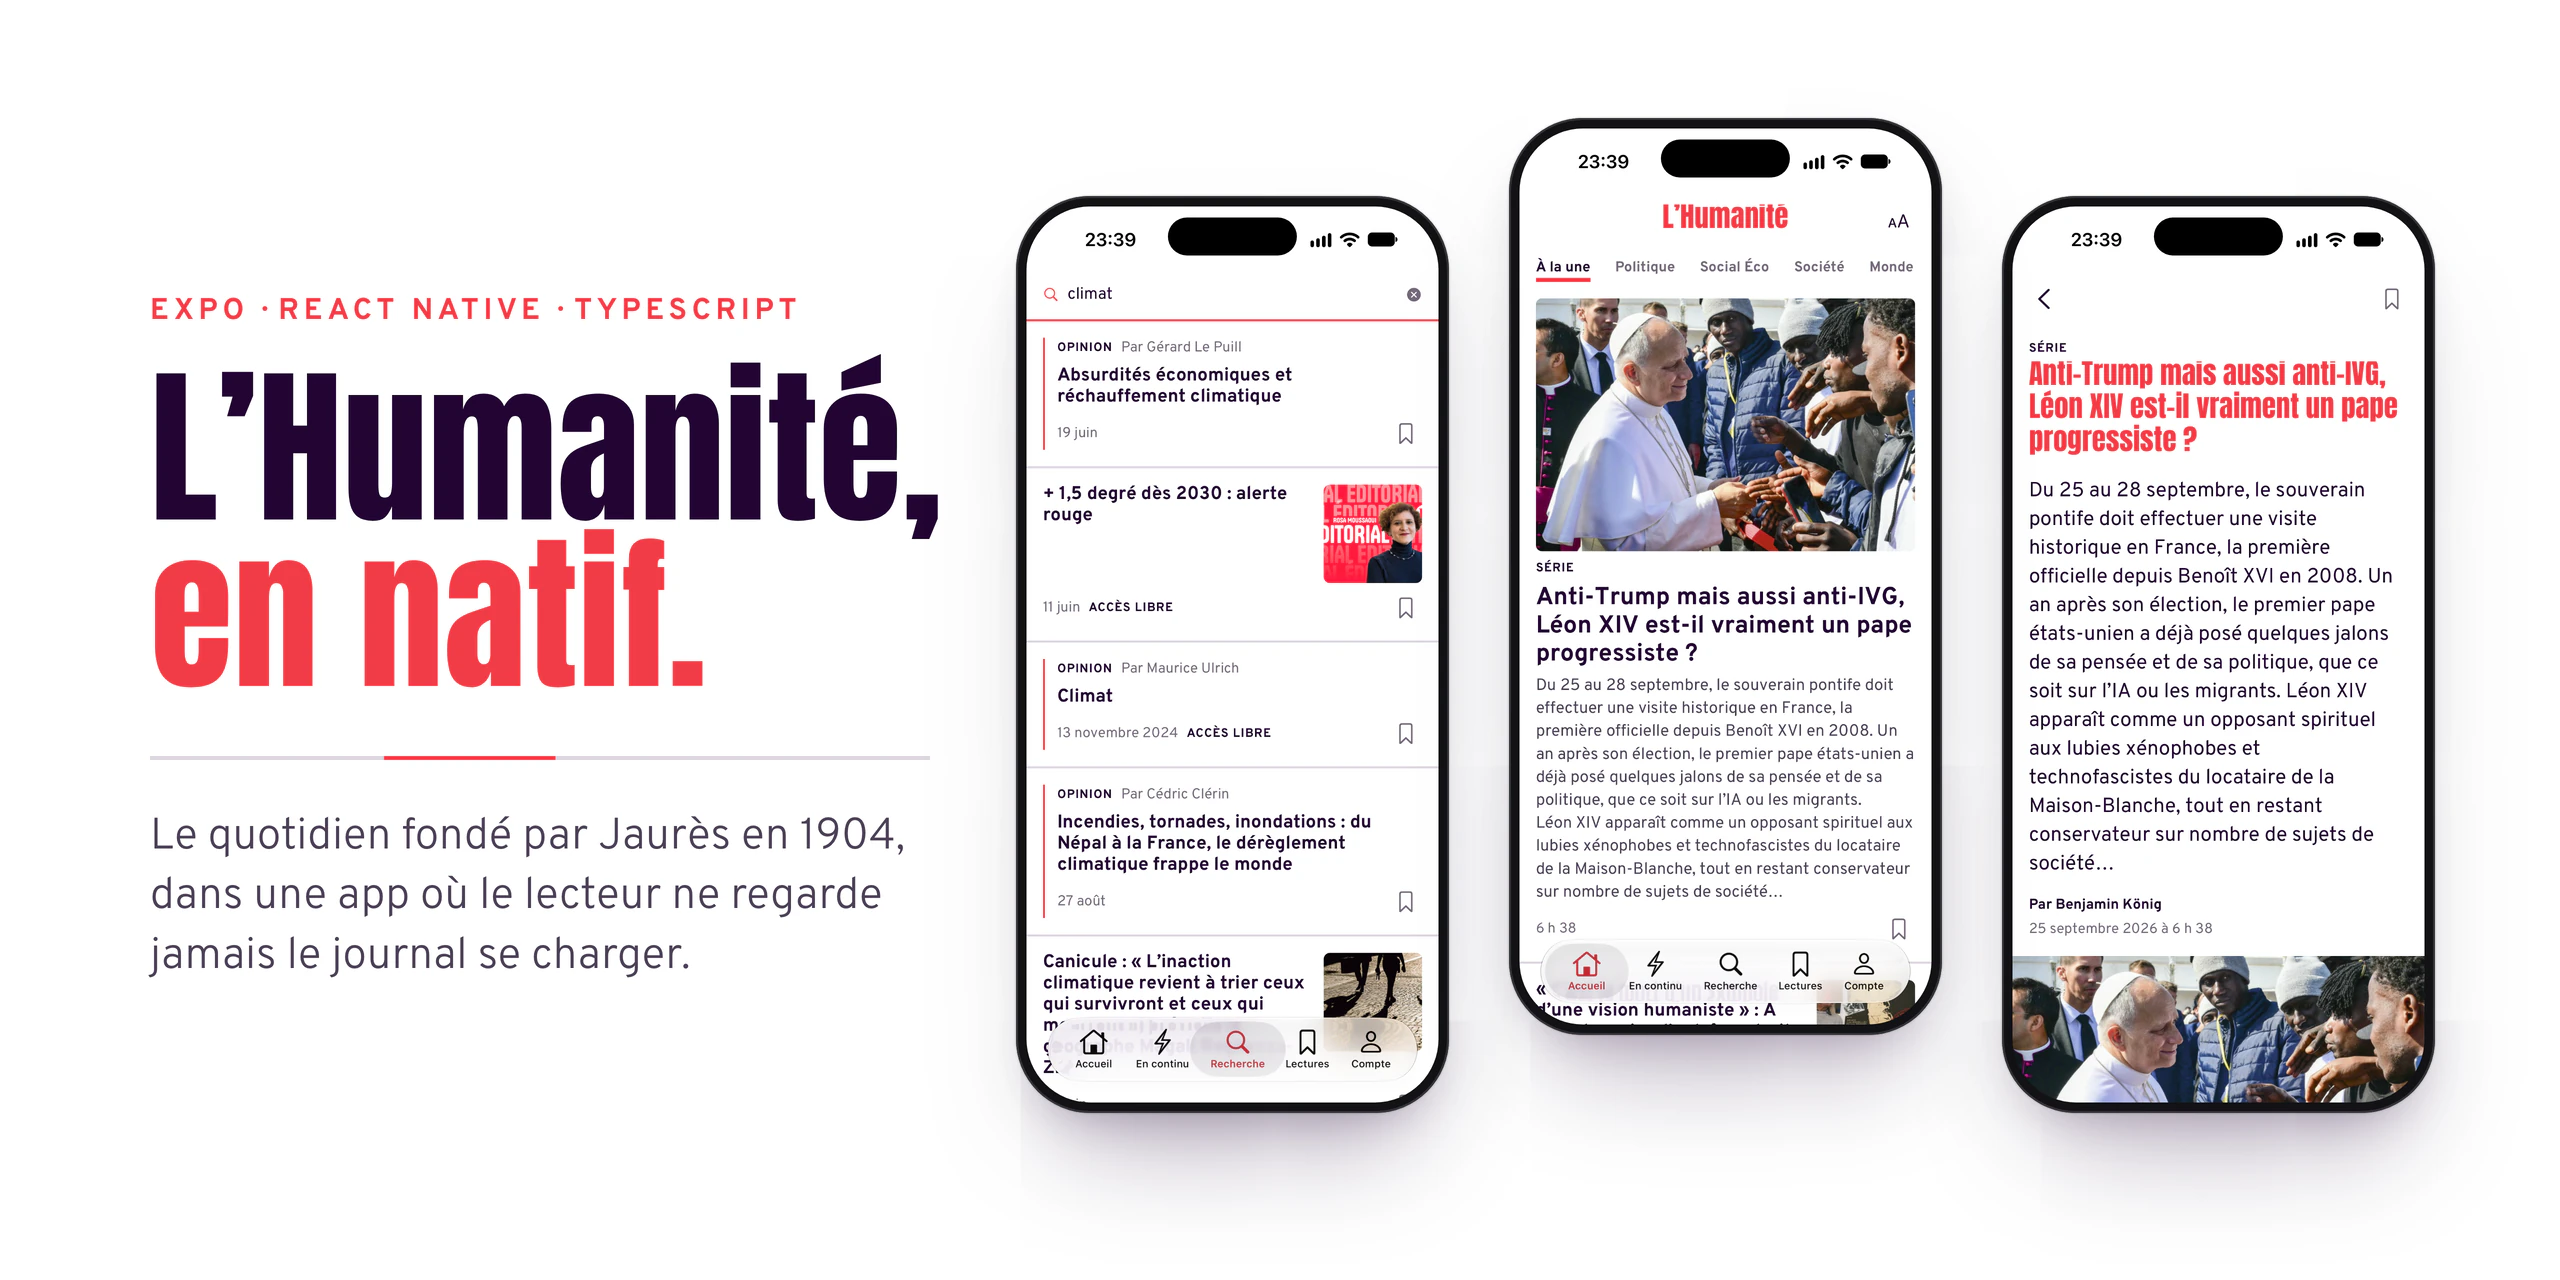
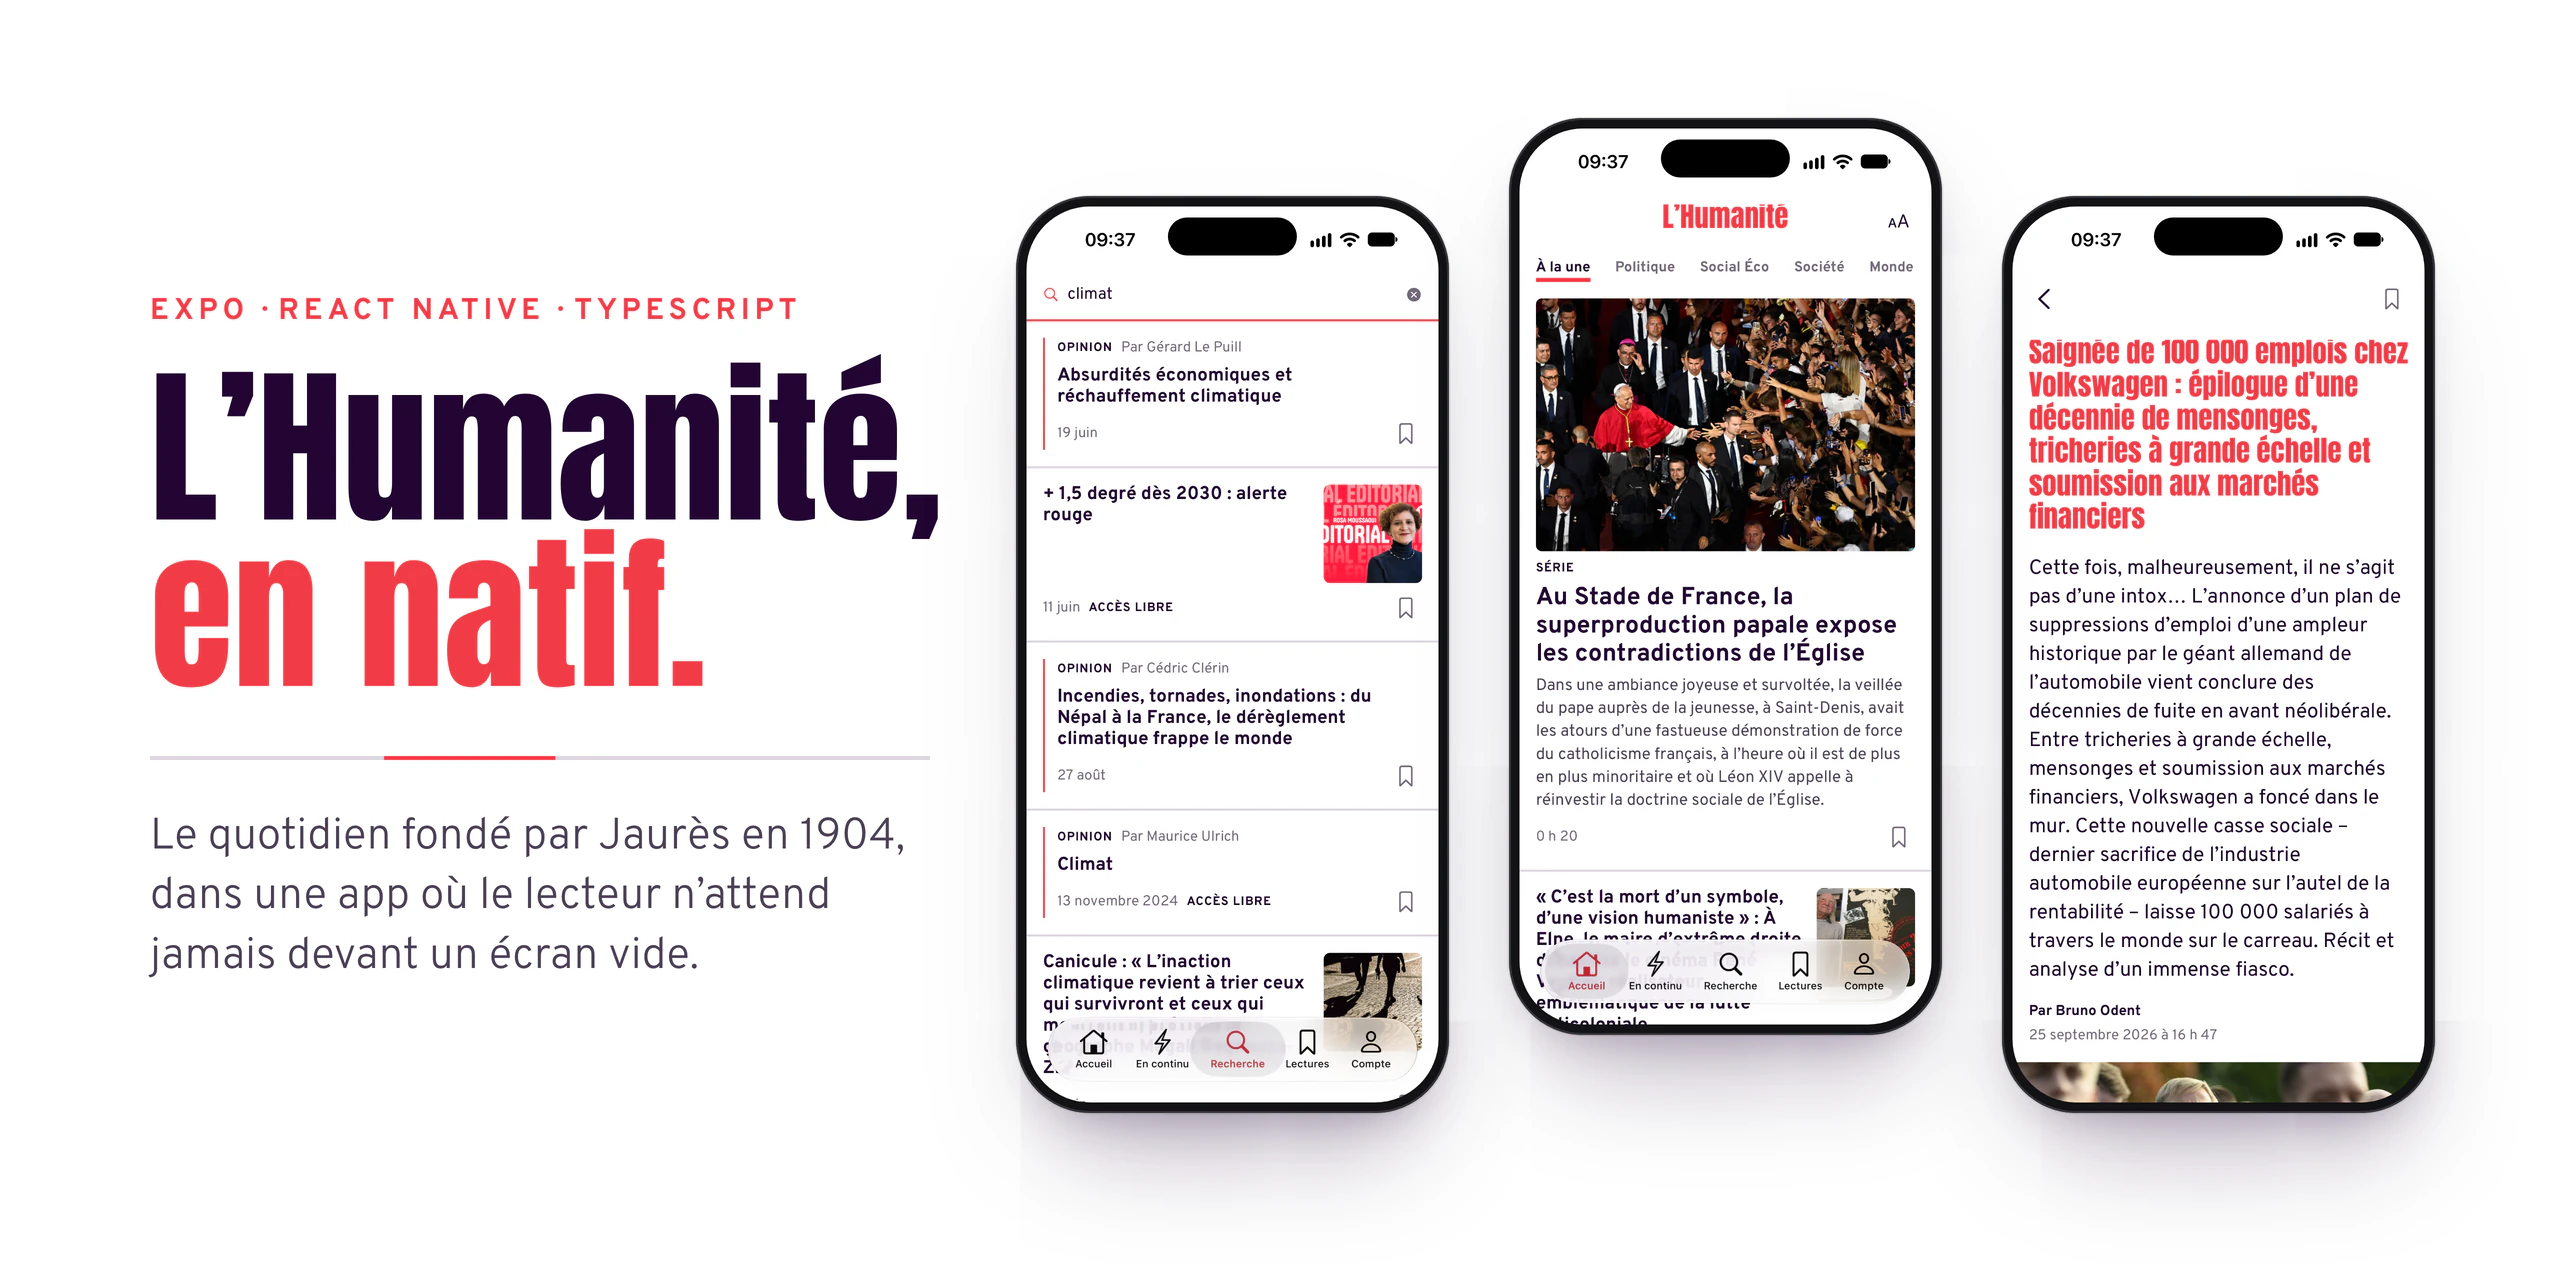
docs(repo): refaire la bannière et la galerie — nouvelle une, bande sombre corrigée
Captures du 26/09/2026 sur le simulateur iPhone, heure épinglée à 09:37, en
clair puis en sombre, après 36f9a51 et a3ee7d7 : la bande des rubriques sur le
fond de la page en sombre, la une du jour, deux articles à l'écran au lieu d'un,
et une recherche sur « climat » qui ne montre que la réponse du journal.

La phrase de la bannière et son texte de remplacement disaient que le lecteur
ne regarde jamais le journal se charger ; depuis a3ee7d7, une recherche lui fait
regarder des silhouettes une à deux secondes. Elle dit ce qui reste vrai : le
lecteur n'attend jamais devant un écran vide.

diff --git a/README.md b/README.md
@@ -2,7 +2,7 @@
 
 <picture>
   <source media="(prefers-color-scheme: dark)" srcset="docs/showcase/banner-dark.webp">
-  <img src="docs/showcase/banner-light.webp" width="100%" alt="L'Humanité, en natif : le quotidien fondé par Jaurès en 1904, dans une app où le lecteur ne regarde jamais le journal se charger. Trois écrans de l'app sur iPhone : une recherche, la une, un article.">
+  <img src="docs/showcase/banner-light.webp" width="100%" alt="L'Humanité, en natif : le quotidien fondé par Jaurès en 1904, dans une app où le lecteur n'attend jamais devant un écran vide. Trois écrans de l'app sur iPhone : une recherche, la une, un article.">
 </picture>
 
 ![Expo SDK 57](https://img.shields.io/badge/Expo-SDK%2057-000020?logo=expo&logoColor=white)
@@ -59,7 +59,7 @@ Relevé le 25/09/2026 sur `main`.
   <img src="docs/showcase/screens-light.webp" width="100%" alt="Quatre écrans de l'app sur iPhone : À la une, En continu, un article, une recherche sur « climat ».">
 </picture>
 
-_Simulateur iPhone, service du journal, le 25/09/2026._
+_Simulateur iPhone, service du journal, le 26/09/2026._
 
 | Écran                       | Ce qu'il fait                                                                                                                     |
 | --------------------------- | --------------------------------------------------------------------------------------------------------------------------------- |
